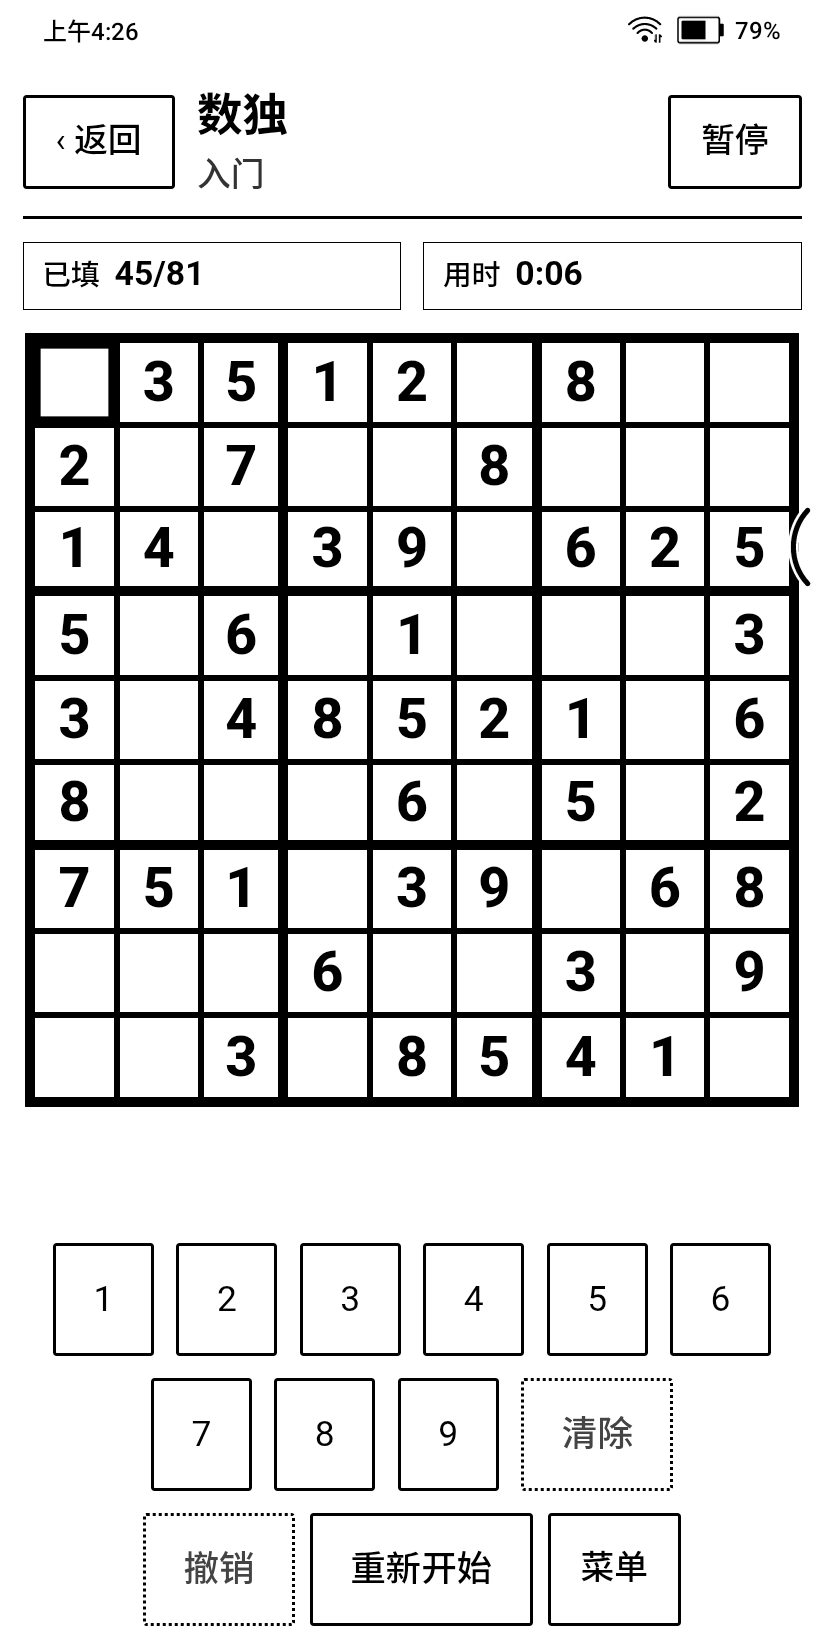
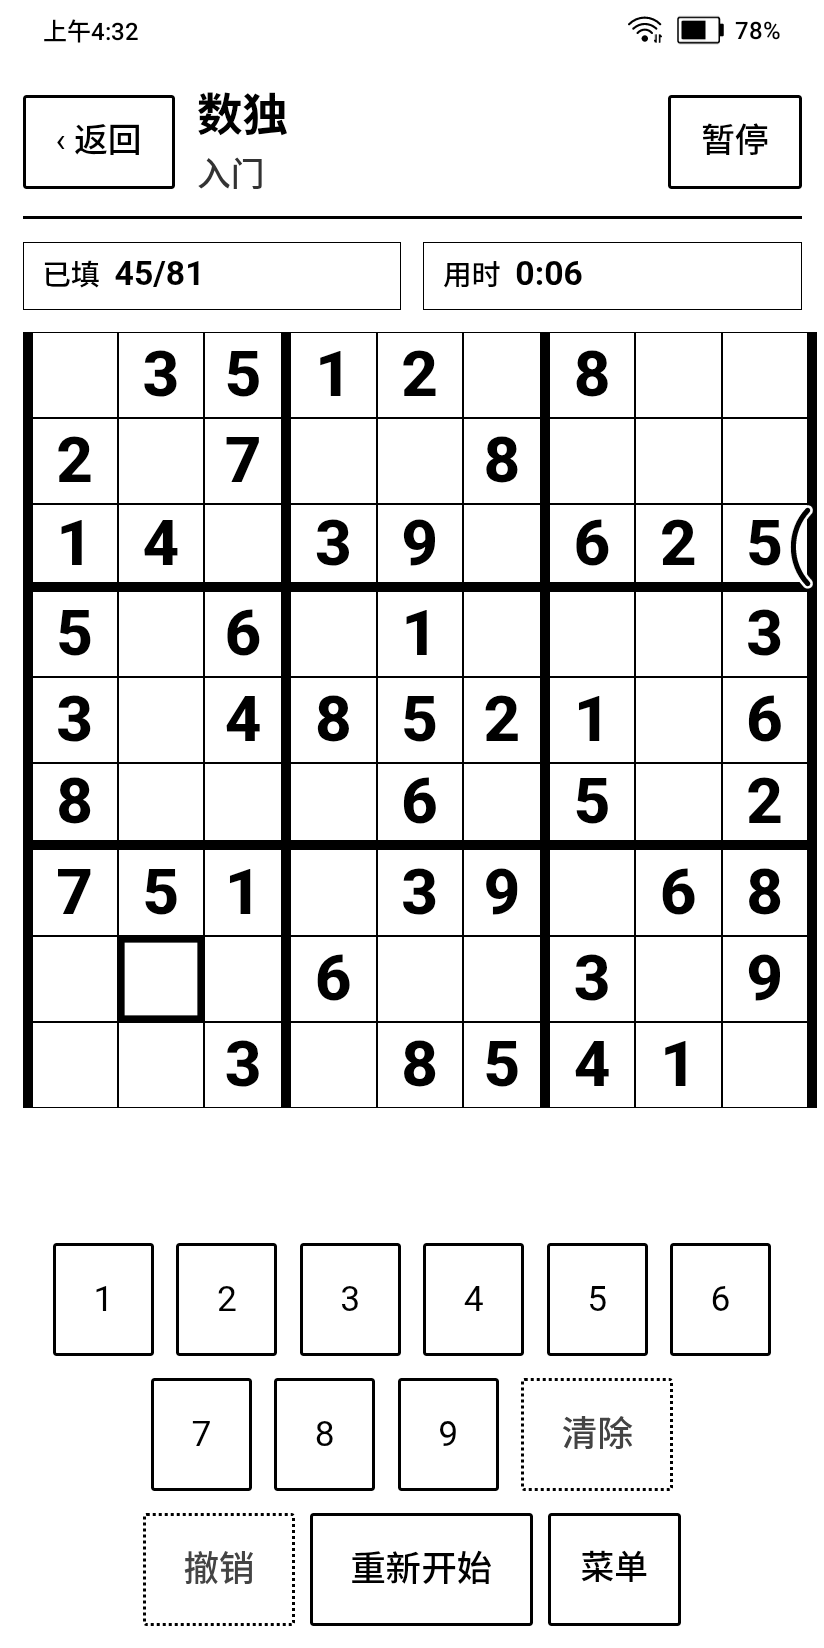
feat(sudoku): 线宽定为细 1px / 粗 5px；给定与填入用字号+字重双重区分
线宽（用户确认的取值）
- 格子线 1px、宫线 5px、外框 5px（比例约 9:1）。
- 棋盘线**不再跟随「加粗线条」设置**：该设置只影响字形笔画与界面控件边框（--line）。
  原因：原先加粗模式下格子线会变 2px，与宫线只剩 2 倍差距，层次立刻消失
  （这正是「区分不明显」的根因——两台设备的该设置都是开启状态）。
- 外框不细于宫线，否则棋盘看起来是散的。

给定 vs 玩家填入（上一轮反馈「再区分明显一点」）
- 新增 CellView.textScale（游戏声明格内字号系数，缺省 0.66）：
  题目给定 0.74 + 字重 800，玩家填入 0.50 + 字重 400。
- 为什么不让壳层按 kind 写死：tile 这个 kind 2048 也在用（其数字应保持大号），写死会误伤。
- 真机实测：P6Plus 34.0px / 23.0px；Note X2 50.3px / 34.0px。

实测
- P6Plus：细 0.53px、粗 4.8px、格子 46px；Note X2：细 0.67px、粗 4.67px、格子 68px
- npm run check 全绿（335 测试 + i18n）
- 截图 docs/screens/game-sudoku-portrait.png / -landscape.png

文档：docs/eink-guidelines.md 记录最终取值、以及「1px 在 dpr 1.875 上会被吸附成单个设备像素
（实测 1px → 0.53 CSS px），若觉得太淡则 2px 是可见的最细起点」。

Changed region(s): [[0.0303, 0.1857, 1.0, 0.6808], [0.1517, 0.0, 0.182, 0.0309]]

diff --git a/packages/ui/src/styles.css b/packages/ui/src/styles.css
@@ -405,34 +405,27 @@ body {
 
 /*
  * 线宽层次（黑白屏上靠线宽建立结构层次，不用灰度）：
- *   格子线 1px（加粗线条时 2px） < 宫线 3px（4px） = 外框 3px（4px）
- * 数独的 3×3 宫线靠 data-sep-* 加粗；外框必须不细于宫线，否则棋盘看起来是散的。
+ *   格子线 1px  <  宫线 5px  =  外框 5px      → 细:粗 = 1:5
+ *
+ * 这些值**不跟随「加粗线条」设置**：该设置只影响字形笔画与界面控件边框（--line）。
+ * 原因：若棋盘线跟着设置走，加粗模式下格子线变 2px、与宫线只剩 2 倍差距，层次就没了。
+ *
+ * 注意：组边界加粗会叠加相邻格自身的 1px，所以视觉宽度比设定值再多 1px。
+ * 外框不细于宫线，否则棋盘看起来是散的。
  */
 .eink-board {
   display: grid;
-  border: 3px solid var(--ink-black);
+  border: 5px solid var(--ink-black);
   touch-action: manipulation;
 }
 
-html[data-bold-lines='on'] .eink-board {
-  border-width: 4px;
-}
-
-/* 组边界（如数独 3×3 宫）：加粗到 3px（叠加相邻格自身的 1px 后视觉约 4px） */
+/* 组边界（如数独 3×3 宫） */
 .eink-board__cell[data-sep-right='yes'] {
-  border-right-width: 3px;
+  border-right-width: 5px;
 }
 
 .eink-board__cell[data-sep-bottom='yes'] {
-  border-bottom-width: 3px;
-}
-
-html[data-bold-lines='on'] .eink-board__cell[data-sep-right='yes'] {
-  border-right-width: 4px;
-}
-
-html[data-bold-lines='on'] .eink-board__cell[data-sep-bottom='yes'] {
-  border-bottom-width: 4px;
+  border-bottom-width: 5px;
 }
 
 .eink-board__cell {
@@ -442,10 +435,6 @@ html[data-bold-lines='on'] .eink-board__cell[data-sep-bottom='yes'] {
   border: 1px solid var(--ink-black);
   font-size: calc(var(--cell, 40px) * 0.66);
   line-height: 1;
-}
-
-html[data-bold-lines='on'] .eink-board__cell {
-  border-width: 2px;
 }
 
 /*
@@ -512,6 +501,8 @@ html[data-bold-lines='on'] .eink-board__cell {
 .eink-board__cell[data-kind='tile'] .eink-board__text {
   font-weight: 400;
 }
+
+/* 玩家填入不额外标记，靠字号/字重即可分辨（避免给大量格子加边框或纹理） */
 
 /* 其余格子铺白，遮住容器的纹理 */
 .eink-board__cell[data-kind='floor'],

diff --git a/packages/games/sudoku/src/view.ts b/packages/games/sudoku/src/view.ts
@@ -26,10 +26,16 @@ export function cellGlyph(state: SudokuState, index: number): string {
 export function buildBoard(state: SudokuState): BoardView {
   const cells: CellView[] = []
   for (let index = 0; index < SUDOKU_CELLS; index++) {
+    const kind = cellKindAt(state, index)
     const cell: CellView = {
       index,
-      kind: cellKindAt(state, index),
+      kind,
       glyph: cellGlyph(state, index),
+      // 题目给定 vs 玩家填入：字号 + 字重双重区分（见 styles.css）。
+      // 只靠字重不够明显，字号差异在墨水屏上一眼可辨 —— 这也是纸面数独的通行做法
+      // （印刷体的题目数字大，自己写的数字小）。
+      ...(kind === 'given' ? { textScale: 0.74 } : {}),
+      ...(kind === 'tile' ? { textScale: 0.5 } : {}),
     }
     if (state.selected === index) cell.selected = true
     cells.push(cell)

diff --git a/packages/ui/src/components.tsx b/packages/ui/src/components.tsx
@@ -296,7 +296,13 @@ export function Board({
           {...(onCellSelect ? { onClick: () => onCellSelect(cellView.index) } : {})}
         >
           {TEXT_KINDS.has(cellView.kind) && cellView.glyph ? (
-            <span className="eink-board__text" aria-hidden="true">
+            <span
+              className="eink-board__text"
+              aria-hidden="true"
+              {...(cellView.textScale
+                ? { style: { fontSize: `calc(var(--cell, 40px) * ${cellView.textScale})` } }
+                : {})}
+            >
               {cellView.glyph}
             </span>
           ) : null}

diff --git a/packages/core/src/types.ts b/packages/core/src/types.ts
@@ -48,6 +48,12 @@ export interface CellView {
   glyph: string
   /** 当前选中/光标所在格：壳层加重描边（黑白屏上靠线宽区分，不用灰度） */
   selected?: boolean
+  /**
+   * 格内文字的字号系数（相对格子边长，缺省 0.66）。
+   * 用于区分「题目给定」与「玩家填入」这类同格内容 —— 黑白屏上字号比颜色可靠。
+   * 由游戏声明而不是壳层写死，避免同一 kind 在不同玩法里被误改字号。
+   */
+  textScale?: number
 }
 
 export interface BoardView {

diff --git a/docs/eink-guidelines.md b/docs/eink-guidelines.md
@@ -289,14 +289,18 @@
 黑白屏上区分「格子 / 分组 / 边框」只能用线宽与形状。数独的 9×9 如果所有线一样细，
 3×3 宫的结构就完全看不出来（用户实测反馈「线条粗细要明确一下」）。
 
-约定（实现见 `styles.css`）：
+约定（实现见 `styles.css`，用户最终确认的取值）：
 
-| 层级 | 默认 | 「加粗线条」开启 |
-|---|---|---|
-| 格子线 | 1px | 2px |
-| **分组线**（如数独 3×3 宫） | 3px | 4px |
-| 棋盘外框 | 3px | 4px |
+| 层级 | 线宽 |
+|---|---|
+| 格子线 | **1px** |
+| **分组线**（如数独 3×3 宫） | **5px** |
+| 棋盘外框 | **5px** |
 
+真机实测（`加粗线条` 为 on 时）：P6Plus 细 0.53px / 粗 4.8px，Note X2 细 0.67px / 粗 4.67px —— 比例约 **9:1**。
+
+- 棋盘线**不跟随「加粗线条」设置**。该设置只影响字形笔画与界面控件边框（`--line`）。
+  原因：若格子线跟着设置走，加粗模式下格子线变 2px、与分组线只剩 2 倍差距，层次立刻消失。
 - 外框**不得细于分组线**，否则棋盘看起来是散的。
 - 分组由游戏声明：`BoardView.groups = { cols: 3, rows: 3 }`，
   壳层在组边界给格子打 `data-sep-right` / `data-sep-bottom` 并加粗对应边框。
@@ -328,3 +332,17 @@
 > 判据：**一个界面上大量重复出现的元素，不应各自再加边框**——
 > 边框是「结构」信号，重复几十分会变成噪声；状态差异优先用字重、填充、符号表达。
 > 边框只留给少量、稀疏的元素（例如当前选中格）。
+
+最终取值是**字号 + 字重双重区分**（由游戏自己声明，壳层不写死）：
+
+| 格子 | 字号（相对格子边长） | 字重 |
+|---|---|---|
+| 题目给定 | 0.74 | 800 |
+| 玩家填入 | 0.50 | 400 |
+
+字号通过 `CellView.textScale` 由游戏声明（缺省 0.66）。为什么不让壳层按 `kind` 写死：
+`tile` 这个 kind 2048 也在用（它的数字应当保持大），写死会误伤别的玩法。
+真机实测：P6Plus 给定数字 34.0px / 玩家填入 23.0px；Note X2 给定 50.3px / 玩家填入 34.0px。
+
+> 1px 细线在 dpr 1.875 的机器上会被吸附成**单个设备像素**（实测 1px → 0.53 CSS px），
+> 竖线在面板上很淡。当前是用户确认的取值；若觉得太淡，**2px 是「看得见的最细」起点**。
